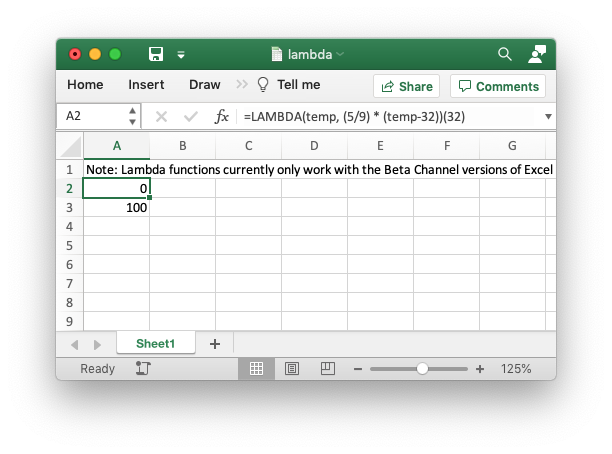
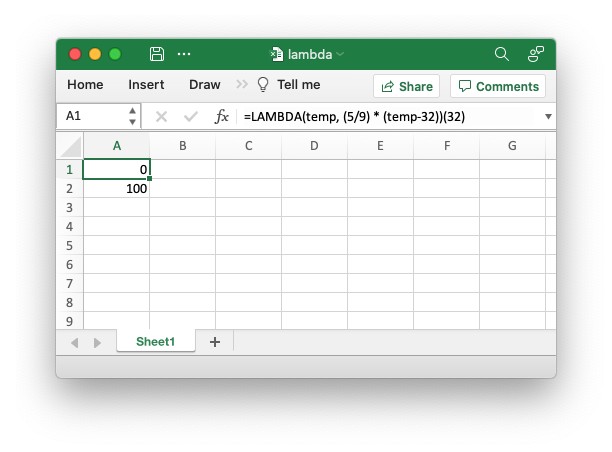
Update docs/example for lambda function.

diff --git a/examples/lambda.py b/examples/lambda.py
@@ -1,8 +1,7 @@
 #######################################################################
 #
 # An example of using the new Excel LAMBDA() function with the XlsxWriter
-# module. Note, this function is only currently available if you are
-# subscribed to the Microsoft Office Beta Channel program.
+# module.
 #
 # SPDX-License-Identifier: BSD-2-Clause
 # Copyright 2013-2022, John McNamara, jmcnamara@cpan.org
@@ -12,15 +11,12 @@ from xlsxwriter.workbook import Workbook
 workbook = Workbook('lambda.xlsx')
 worksheet = workbook.add_worksheet()
 
-worksheet.write('A1',
-                'Note: Lambda functions currently only work with '
-                'the Beta Channel versions of Excel 365')
 
 # Write a Lambda function to convert Fahrenheit to Celsius to a cell.
 #
 # Note that the lambda function parameters must be prefixed with
 # "_xlpm.". These prefixes won't show up in Excel.
-worksheet.write('A2', '=LAMBDA(_xlpm.temp, (5/9) * (_xlpm.temp-32))(32)')
+worksheet.write('A1', '=LAMBDA(_xlpm.temp, (5/9) * (_xlpm.temp-32))(32)')
 
 # Create the same formula (without an argument) as a defined name and use that
 # to calculate a value.
@@ -34,6 +30,6 @@ workbook.define_name('ToCelsius',
 
 # The user defined name needs to be written explicitly as a dynamic array
 # formula.
-worksheet.write_dynamic_array_formula('A3', '=ToCelsius(212)')
+worksheet.write_dynamic_array_formula('A2', '=ToCelsius(212)')
 
 workbook.close()

diff --git a/dev/docs/source/working_with_formulas.rst b/dev/docs/source/working_with_formulas.rst
@@ -238,10 +238,7 @@ range. The example in the image above was generated using the following::
 The Excel 365 LAMBDA() function
 -------------------------------
 
-**Note: at the time of writing the LAMBDA() function in Excel is only
-available to Excel 365 users subscribed to the Beta Channel updates.**
-
-Beta Channel versions of Excel 365 have introduced a powerful new
+Recent versions of Excel 365 have introduced a powerful new
 function/feature called ``LAMBDA()``. This is similar to the `lambda
 <https://docs.python.org/3/howto/functional.html#small-functions-and-the-lambda-expression>`_
 function in Python (and other languages).

diff --git a/dev/docs/source/example_lambda.rst b/dev/docs/source/example_lambda.rst
@@ -11,9 +11,7 @@ demonstrates how to create a lambda function in Excel and also how to assign a
 name to it so that it can be called as a user defined function. This
 particular example converts from Fahrenheit to Celsius.
 
-Note, this function is only currently available if you
-are subscribed to the Microsoft Office Beta Channel program.  See the
-:ref:`formula_lambda` section of the documentation for more details.
+See the :ref:`formula_lambda` section of the documentation for more details.
 
 .. image:: _images/lambda01.png
 
